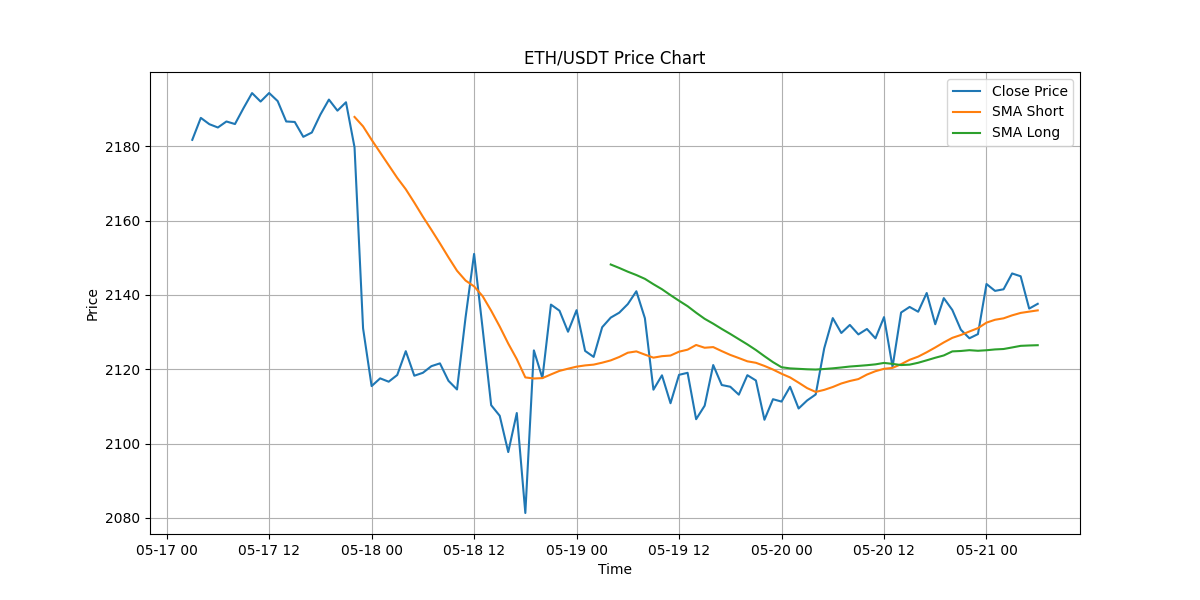
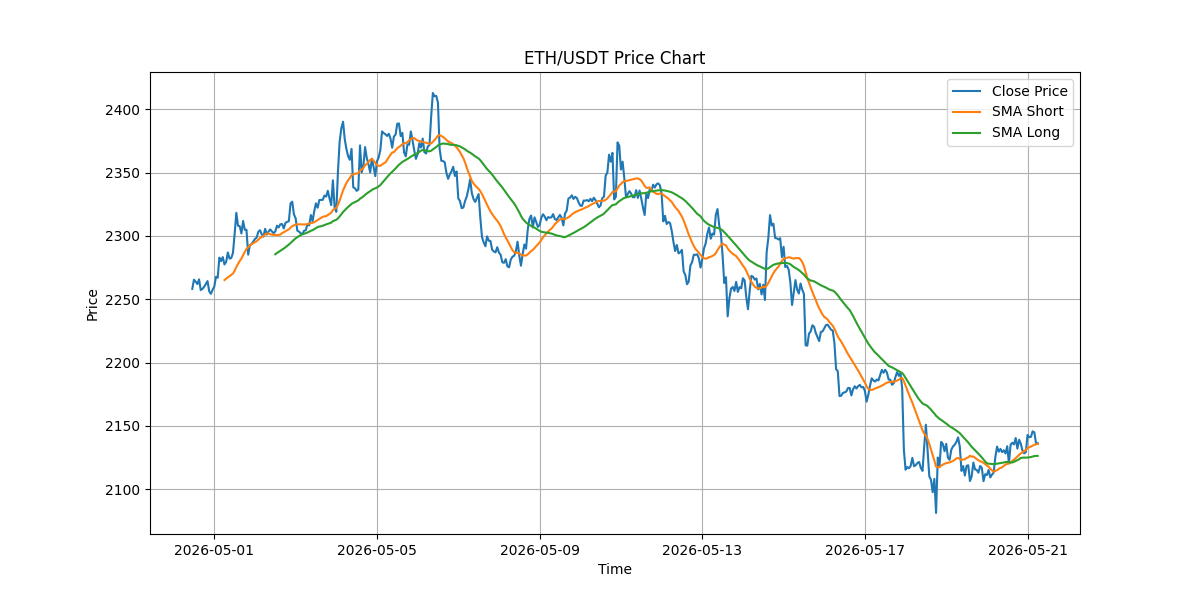
Add basic backtesting engine

diff --git a/backtesting/engine.py b/backtesting/engine.py
@@ -1,0 +1,53 @@
+def run_backtest(df):
+
+    balance = 1000
+    position = None
+    entry_price = 0
+
+    trades = []
+
+    for i in range(len(df)):
+
+        row = df.iloc[i]
+
+        price = row["close"]
+
+        rsi = row["rsi"]
+
+        sma_short = row["sma_short"]
+
+        sma_long = row["sma_long"]
+
+        # BUY CONDITION
+        if (
+            rsi < 30
+            and sma_short > sma_long
+            and position is None
+        ):
+
+            position = "BUY"
+
+            entry_price = price
+
+            trades.append(
+                f"BUY at {price}"
+            )
+
+        # SELL CONDITION
+        elif (
+            rsi > 70
+            and sma_short < sma_long
+            and position == "BUY"
+        ):
+
+            profit = price - entry_price
+
+            balance += profit
+
+            trades.append(
+                f"SELL at {price} | Profit: {round(profit, 2)}"
+            )
+
+            position = None
+
+    return balance, trades

diff --git a/main.py b/main.py
@@ -25,7 +25,7 @@ from strategy.indicators import (
 from strategy.signals import generate_signal
 from utils.storage import save_signal_to_csv, log_signal
 from services.market_data import fetch_candle_data
-
+from backtesting.engine import run_backtest
 
 def main(symbol):
     df = fetch_candle_data(
@@ -36,7 +36,13 @@ def main(symbol):
 
     df = calculate_rsi(df)
     df = calculate_sma(df)
+    
+    balance, trades = run_backtest(df)
+    print(f"Backtest Balance: {round(balance, 2)}")
+    print(f"Trades Executed: {len(trades)}")
+
     plot_chart(df, symbol)
+
 
     price, rsi, sma_short, sma_long, signal, reason = generate_signal(df)
 

diff --git a/config/settings.py b/config/settings.py
@@ -21,4 +21,4 @@ RSI_SELL_THRESHOLD = 70
 SMA_SHORT_WINDOW = 20
 SMA_LONG_WINDOW = 50
 
-CANDLE_LIMIT = 100
+CANDLE_LIMIT = 500
